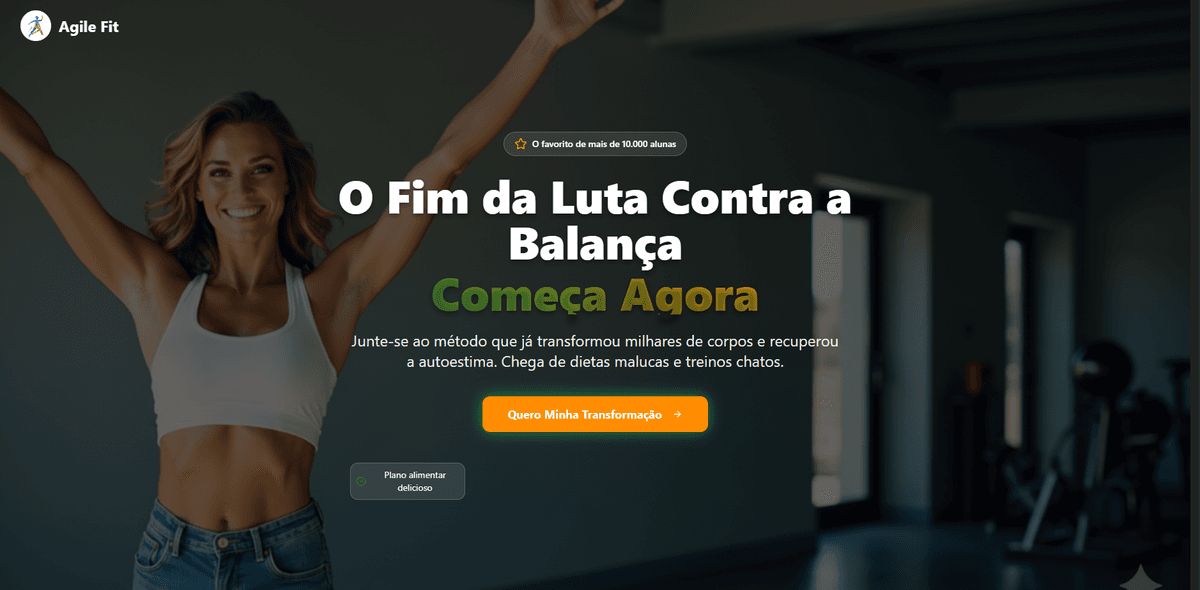
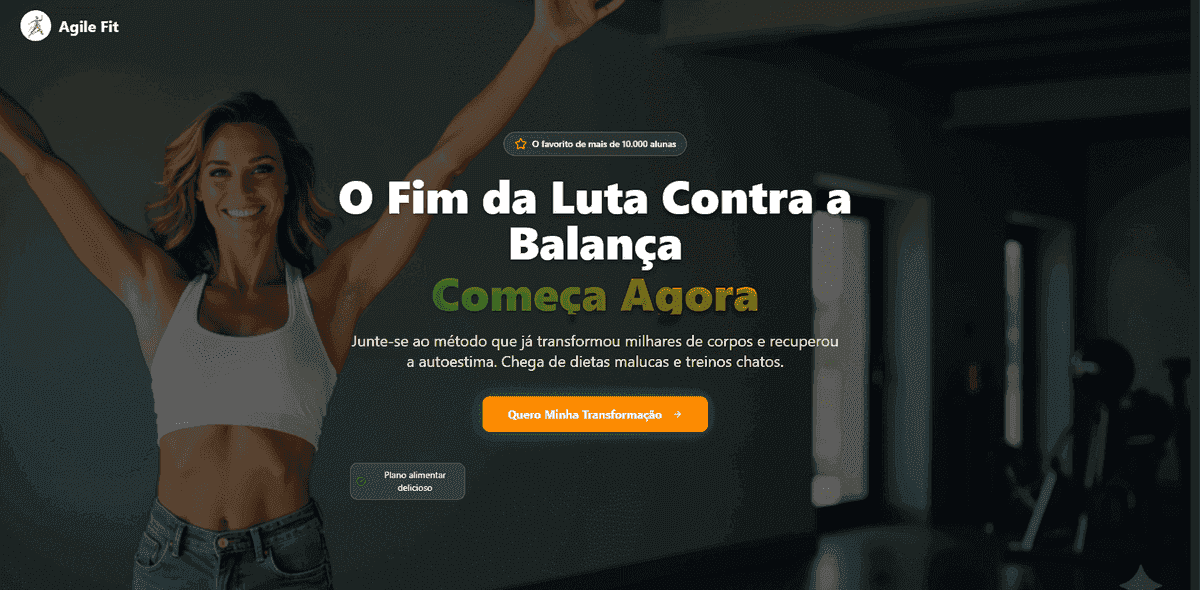
perf: serve responsive WebP images instead of heavy PNG/JPEG

diff --git a/src/components/Testimonials.tsx b/src/components/Testimonials.tsx
@@ -1,11 +1,11 @@
 import Reveal from "@/components/Reveal";
 import { testimonials, testimonialsSection } from "@/content/site";
+import { transformationImage } from "@/lib/images";
 import { cn } from "@/lib/utils";
 import { Star } from "lucide-react";
 import anaPhoto from "@/assets/testimonial-ana.webp";
 import joaoPhoto from "@/assets/testimonial-joao.webp";
 import mariaPhoto from "@/assets/testimonial-maria.webp";
-import transformationImage from "@/assets/transformation.jpg";
 
 const photos = {
   maria: mariaPhoto,
@@ -43,7 +43,9 @@ const Testimonials = () => {
             <div className="grid md:grid-cols-[1.1fr_1fr]">
               <div className="relative min-h-[220px] md:min-h-[280px]">
                 <img
-                  src={transformationImage}
+                  src={transformationImage.src}
+                  srcSet={transformationImage.srcSet}
+                  sizes={transformationImage.sizes}
                   alt={testimonialsSection.proofImageAlt}
                   className="absolute inset-0 h-full w-full object-cover"
                   loading="lazy"

diff --git a/src/components/NewsletterForm.tsx b/src/components/NewsletterForm.tsx
@@ -4,7 +4,7 @@ import { Button } from "@/components/ui/button";
 import { Input } from "@/components/ui/input";
 import { CheckCircle, Mail, User } from "lucide-react";
 import { toast } from "sonner";
-import transformationImage from "@/assets/transformation.jpg";
+import { transformationImage } from "@/lib/images";
 import { formCopy, site } from "@/content/site";
 import { isValidEmail } from "@/lib/email";
 import { submitLead } from "@/lib/leads";
@@ -94,7 +94,9 @@ const NewsletterForm = () => {
           <div className="grid lg:grid-cols-2">
             <Reveal className="relative min-h-[320px] lg:min-h-full">
               <img
-                src={transformationImage}
+                src={transformationImage.src}
+                srcSet={transformationImage.srcSet}
+                sizes={transformationImage.sizes}
                 alt="Alimentação saudável do método Agile Fit"
                 className="absolute inset-0 h-full w-full object-cover"
                 loading="lazy"

diff --git a/src/components/Hero.tsx b/src/components/Hero.tsx
@@ -1,6 +1,6 @@
 import { Button } from "@/components/ui/button";
 import { ArrowRight } from "lucide-react";
-import heroImage from "@/assets/hero-fitness.png";
+import { heroImage } from "@/lib/images";
 import { withBase } from "@/lib/paths";
 import { hero, site } from "@/content/site";
 
@@ -9,7 +9,9 @@ const Hero = ({ onCtaClick }: { onCtaClick: () => void }) => {
     <section className="relative flex min-h-screen items-center justify-center overflow-hidden text-center text-white">
       <div className="absolute inset-0 z-0">
         <img
-          src={heroImage}
+          src={heroImage.src}
+          srcSet={heroImage.srcSet}
+          sizes={heroImage.sizes}
           alt={hero.imageAlt}
           className="h-full w-full origin-center object-cover animate-ken-burns"
           fetchPriority="high"

diff --git a/src/lib/images.ts b/src/lib/images.ts
@@ -1,0 +1,18 @@
+import hero800 from "@/assets/hero-fitness-800.webp";
+import hero1200 from "@/assets/hero-fitness-1200.webp";
+import hero1600 from "@/assets/hero-fitness-1600.webp";
+import transformation600 from "@/assets/transformation-600.webp";
+import transformation900 from "@/assets/transformation-900.webp";
+import transformation1200 from "@/assets/transformation-1200.webp";
+
+export const heroImage = {
+  src: hero1200,
+  srcSet: `${hero800} 800w, ${hero1200} 1200w, ${hero1600} 1600w`,
+  sizes: "100vw",
+} as const;
+
+export const transformationImage = {
+  src: transformation900,
+  srcSet: `${transformation600} 600w, ${transformation900} 900w, ${transformation1200} 1200w`,
+  sizes: "(min-width: 1024px) 50vw, 100vw",
+} as const;
